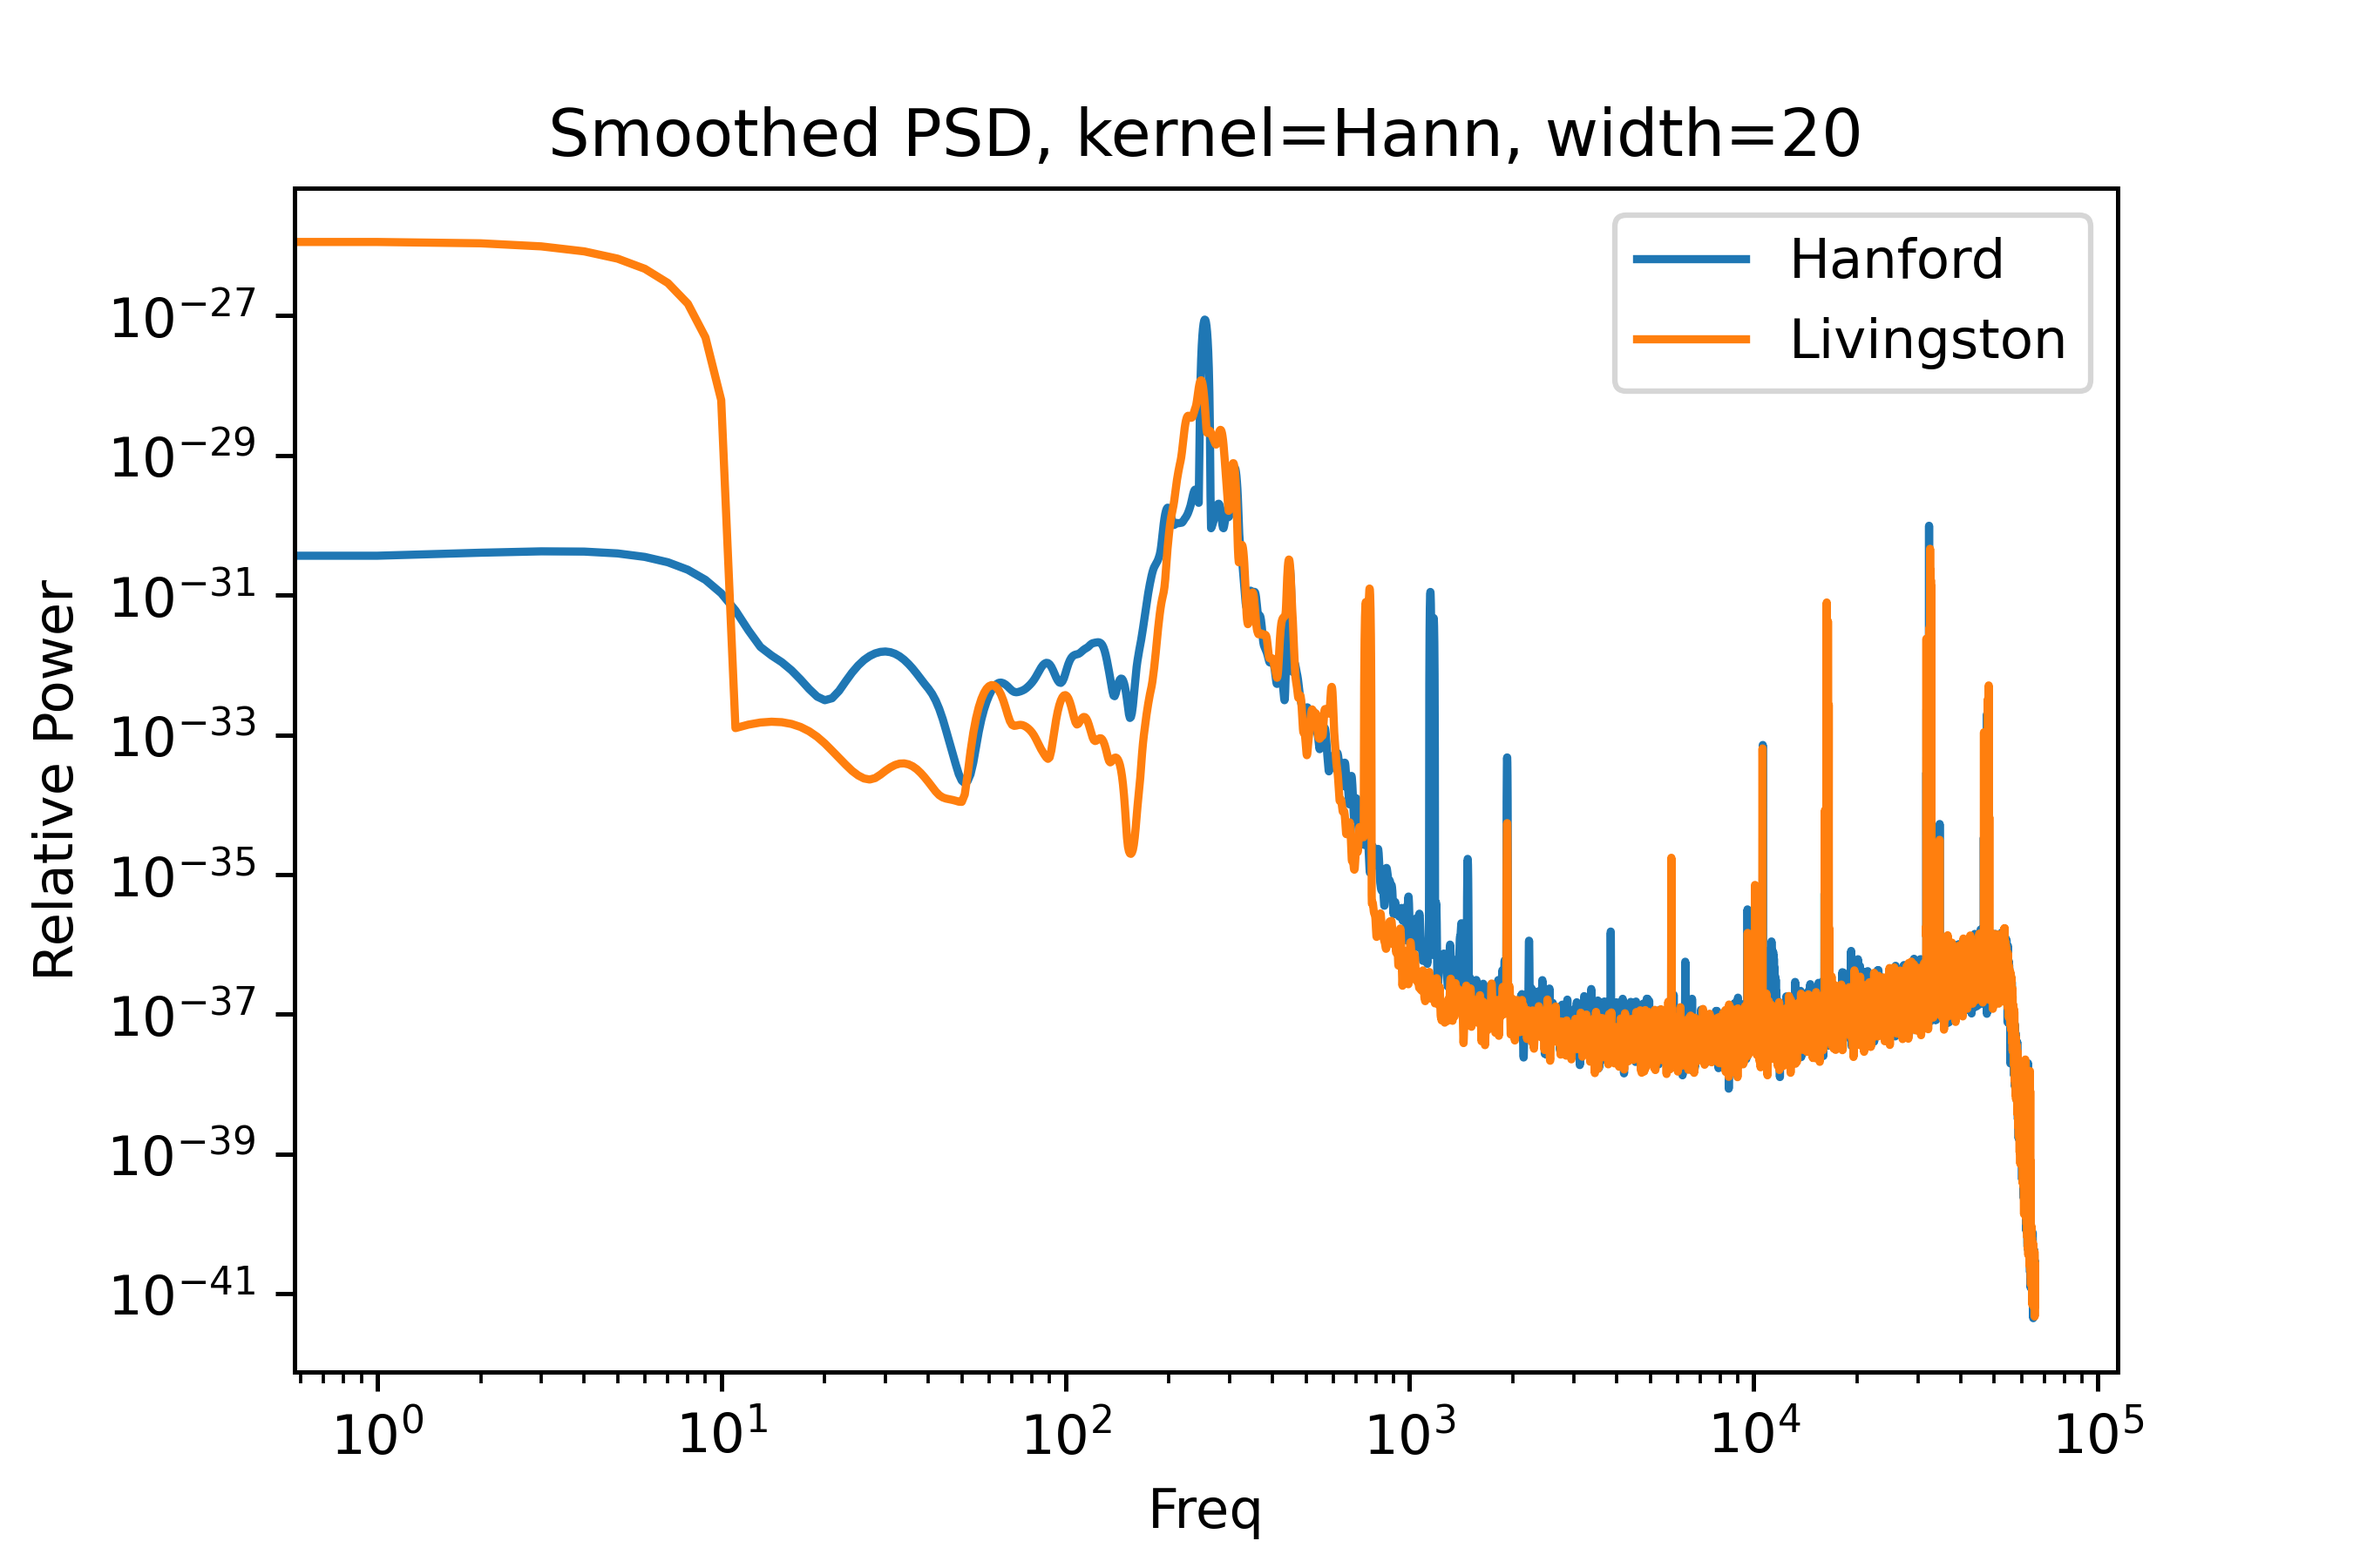
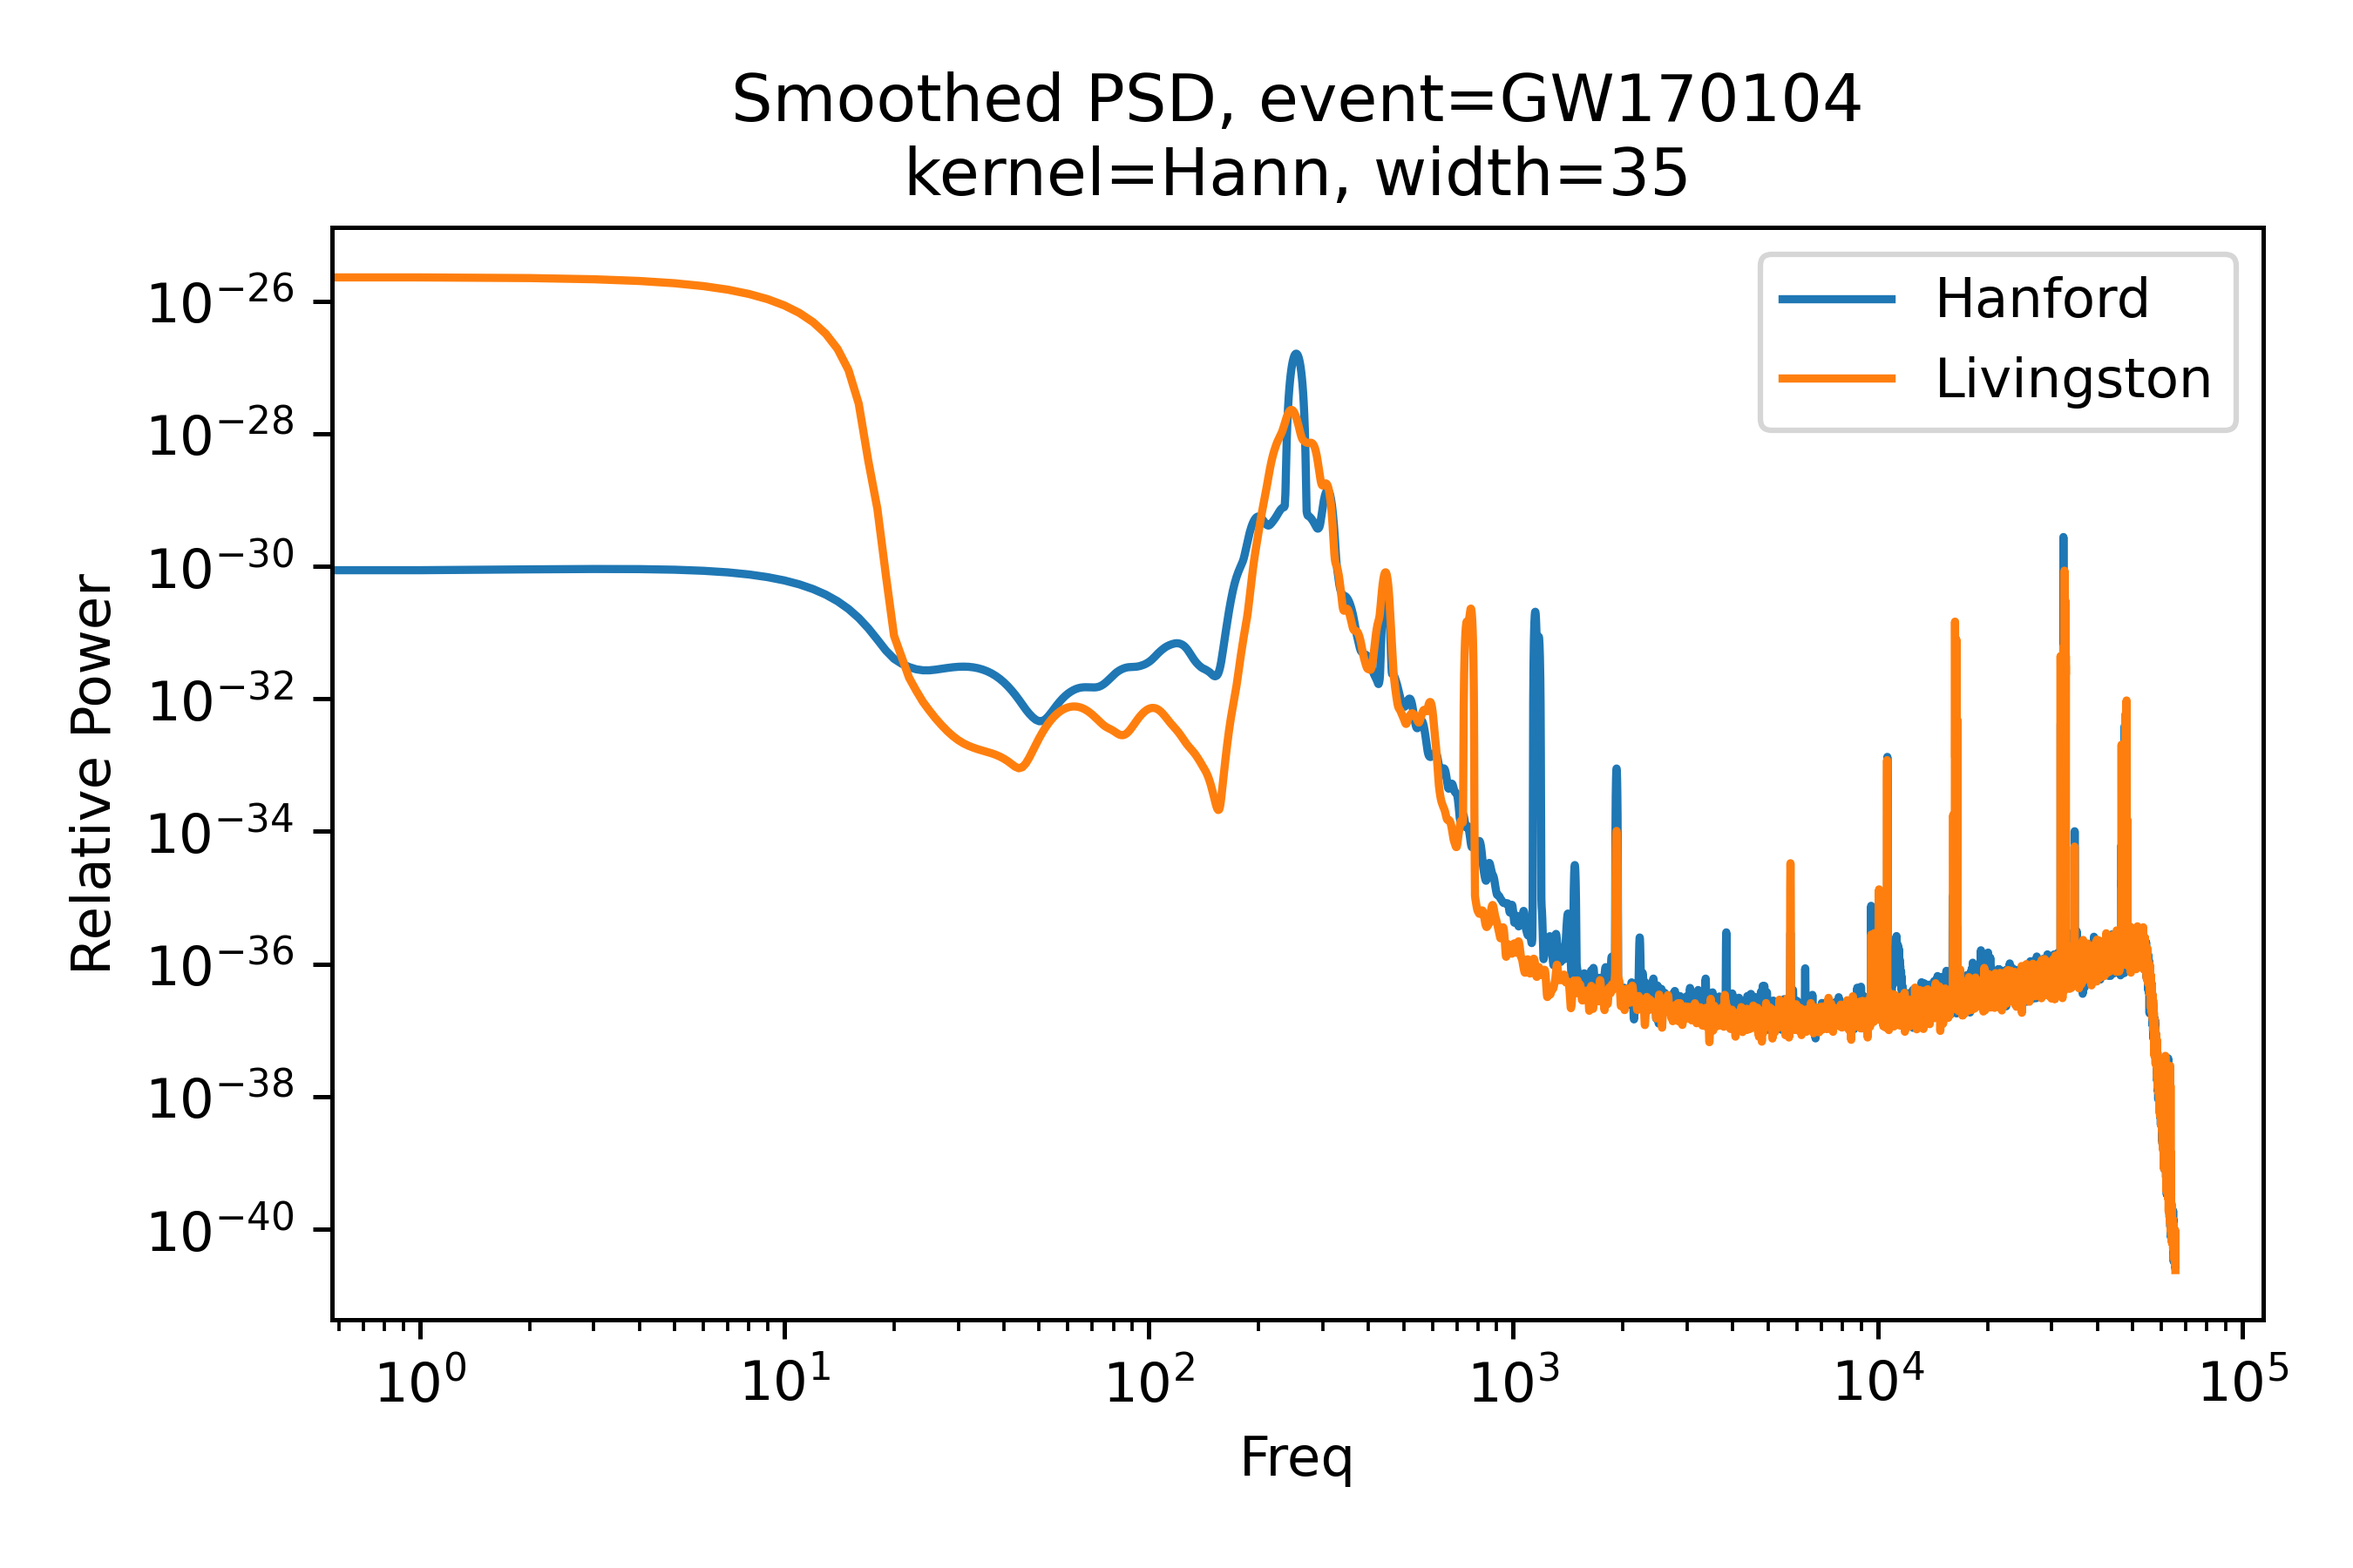
5b

Changed region(s): [[0.0, 0.0311, 0.9644, 0.9956], [0.3422, 0.2178, 0.3733, 0.3111]]

diff --git a/pset06/README.md b/pset06/README.md
@@ -184,23 +184,6 @@ flat=np.ones # we use this as moving-average kernel
 root="./LOSC_Event_tutorial/"  # ligo data root directory (relative path)
 ```
 
-Lets load and pack up the events metadata into a handy dictionary to use later
-
-```python
-# Load event metadata
-events=json.load(open(pathjoin(root,'BBH_events_v3.json')))
-# Fill dictionaries with all we need
-hanford={}    # hanford detector data
-livingston={} # livingston detector data
-for e in events:
-    # Hanford detector params
-    strain,dt,utc = read_file(pathjoin(root,events[e]['fn_H1']))
-    hanford[e]={"strain":strain,"dt":dt,"utc":utc}
-    # Livingston detector params
-    strain,dt,utc = read_file(pathjoin(root,events[e]['fn_L1']))
-    livingston[e]={"strain":strain,"dt":dt,"utc":utc}
-```
-
 This function computes the PSD for us
 
 ```python
@@ -218,6 +201,9 @@ def get_psd(arr,window=None):
 Now we compute and smooth the PSD for each event. We don't explicitly deal with the spikes, but instead, are mindful not to set the smoothing width to large so that the spikes aren't spread out too much. 
 
 ```python
+# Load event metadata
+events=json.load(open(pathjoin(root,'BBH_events_v3.json')))
+
 window=hann # Select a windowing function to prevent leaking
 width_smooth=20 # The width of the smoothing kernel
 ker,ker_name=hann(width_smooth),"Hann" # smoothing kernel is window(width)
@@ -242,6 +228,52 @@ for e in events:
 
 **(b)**
 *Use that noise model to search the four sets of events using a matched filter. The mapping between data and templates can be founmd in the file `BBH_events_v3.json`, included in the zipfile.*
+
+The matched filter works by cross-correlating a signal template with data. If our template is $A$ and $m$ is the (only) parameter of our model (template), and we have a good noise model $N$, then the chi-squared value of our parameter is
+
+$$\chisq=(d-Am)^TN^{-1}(d-Am)$$
+
+We can exploit the stationarity of the noise to simplify this expression and solve for $m$
+
+$$m(\tau) = (A(t-\tau)^TN^{-1}d)/(A(t-\tau)^TN^{-1}A(t-\tau))$$
+
+We can ditch the denominator and simplify (which is constant, since $N$ is stationary) to obtain a relative most-likely amplitude
+
+$$f \equiv (N^{-1}A(t-\tau))^Td \Rightarrow \tilde f = \tilde A^\ast \tilde N^{-1} \tilde d$$
+
+These operations can be computed programatically like so
+
+```python
+def match_filt(data,template,ker):
+    """
+    data : 1d array, already windowed data (d)
+    template : 1d array (A)
+    ker is the smoothing kernel
+    """
+    assert len(data)==len(template),"data must be same shape as template"
+    psd=np.abs(rfft(data))**2 # stationary noise model
+    psd=np.convolve(psd,ker,'same') # smooth the psd
+    # Perform correlation inversly weighted by psd
+    amplitude_ft=np.conj(rfft(template))*rfft(data)/psd
+    return irfft(amplitude_ft)
+```
+
+Now we apply the matched filter to our strain arrays and plot the output. 
+
+```python
+# Load templates into variables
+template_h,template_l=read_template(pathjoin(root,events[e]['fn_template']))
+# Perform matched filter
+matched_h = match_filt(strain_h,template_h,psd_h)
+# Plots (ommited)
+```
+
+NB: `strain_h` is windowed, and the 'tukey' window is used in below plots. 
+
+
+
+
+
 
 **(c)**
 *Estimate a noise for each event and from the output of the matched filter, give a signal-to-noise ratio for each event, both from the individual detectors, and from the combined Livingston + Hanford events.* 
